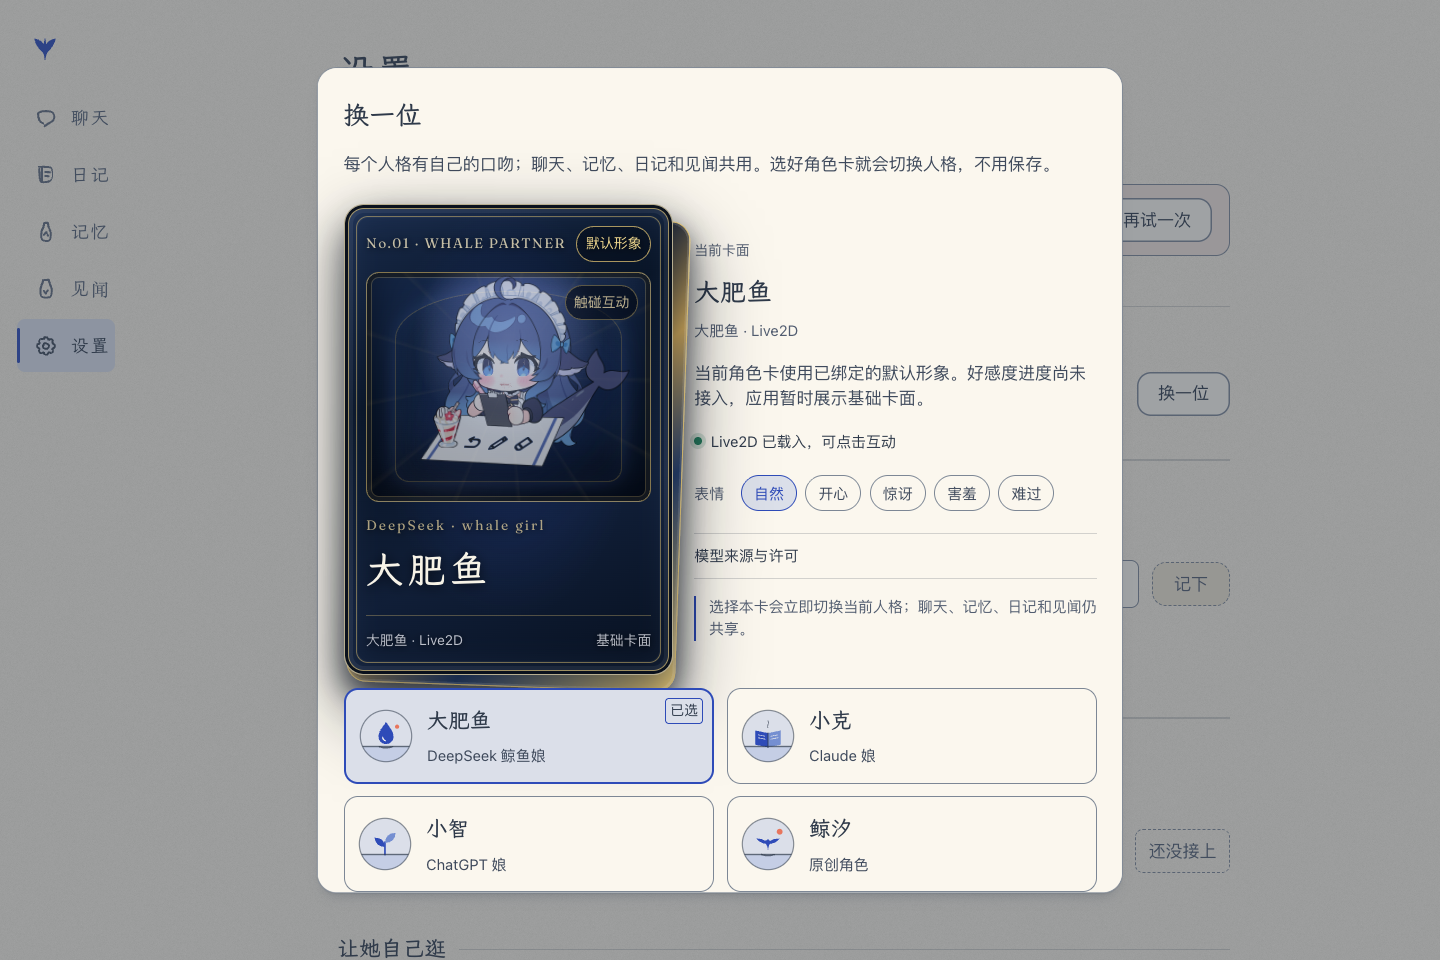
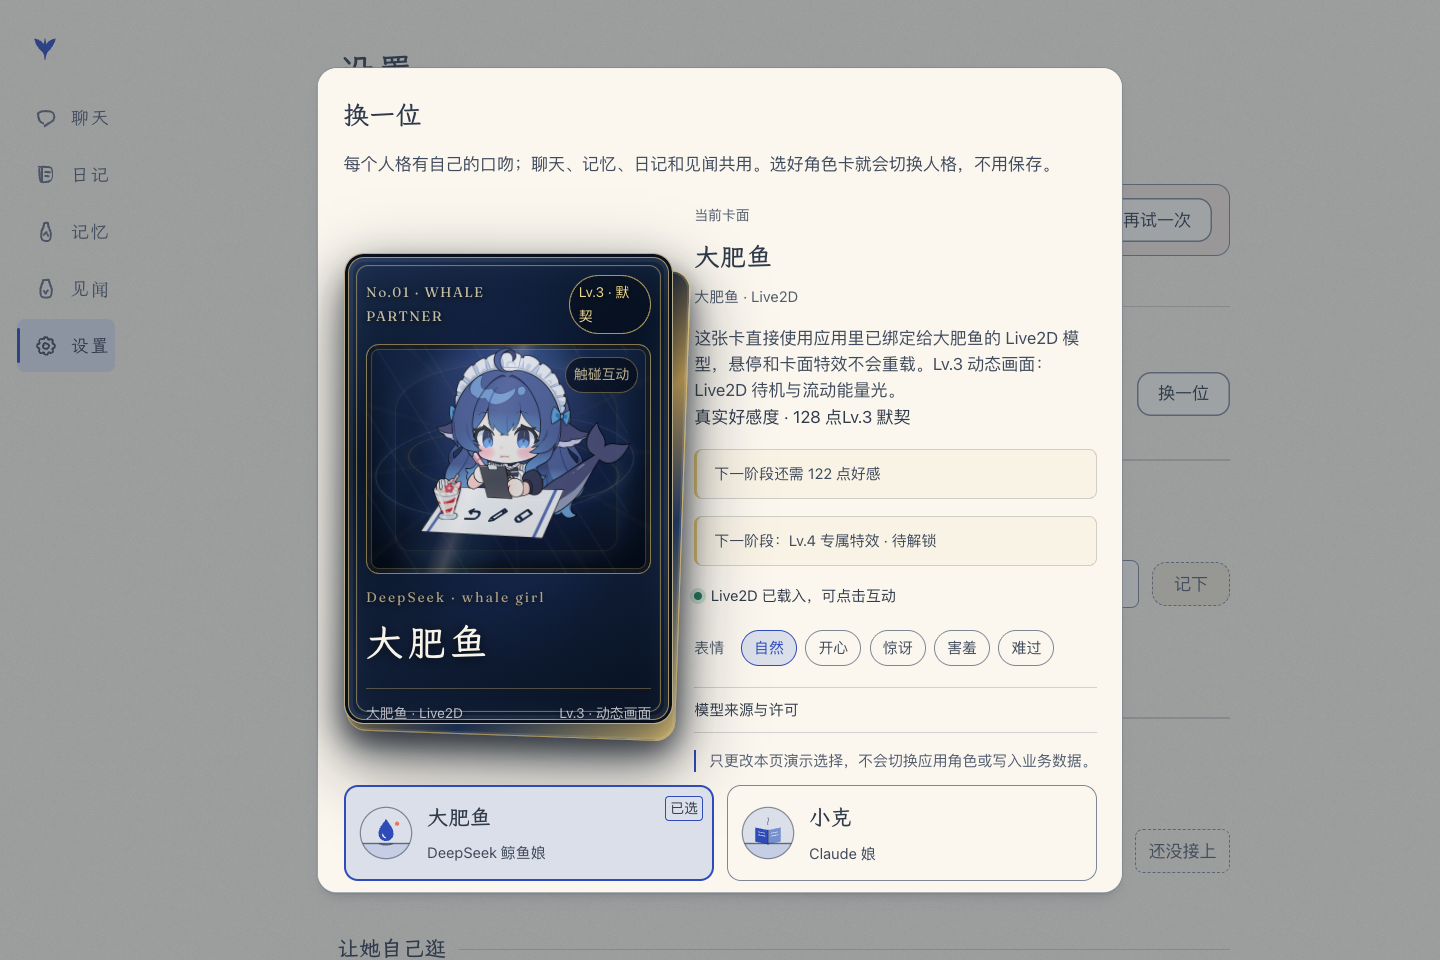
feat: bind role cards to affinity levels

Changed region(s): [[0.2188, 0.1875, 0.75, 0.9375]]

diff --git a/apps/client/src/components/settings/CharacterDialog.tsx b/apps/client/src/components/settings/CharacterDialog.tsx
@@ -3,9 +3,10 @@
  * 关闭后小角的她挥个手。每个人格使用一个固定默认形象，不提供跨角色的模型选择。
  */
 import { Dialog } from "radix-ui";
-import { useEffect, useId, useRef } from "react";
+import { useEffect, useId, useRef, useState } from "react";
 import { CHARACTERS, setCharacter, useCharacter } from "../../characters";
-import { CARD_CHARACTERS, RELATIONSHIP_SAMPLES } from "../../card-preview/data";
+import { API_BASE } from "../../lib/api";
+import { CARD_CHARACTERS, RELATIONSHIP_SAMPLES, type RelationshipProgress } from "../../card-preview/data";
 import { CardShowcase } from "../../card-preview/CardShowcase";
 import { setCompanionMood } from "../CompanionCorner";
 import { CharacterMark } from "../CharacterMark";
@@ -22,6 +23,9 @@ export function CharacterDialog({ open, onOpenChange }: Props) {
   const titleId = useId();
   const descId = useId();
   const changed = useRef(false);
+  const [relationship, setRelationship] = useState<{ characterId: string; snapshot: RelationshipProgress } | null>(null);
+  const [relationshipStatus, setRelationshipStatus] = useState<"loading" | "ready" | "error">("loading");
+  const [retryCount, setRetryCount] = useState(0);
 
   useEffect(() => {
     if (open) {
@@ -29,10 +33,38 @@ export function CharacterDialog({ open, onOpenChange }: Props) {
     }
   }, [open]);
 
+  useEffect(() => {
+    if (!open) return;
+    const controller = new AbortController();
+    setRelationship(null);
+    setRelationshipStatus("loading");
+    void fetch(`${API_BASE}/api/relationship?character=${encodeURIComponent(character.id)}`, {
+      cache: "no-store",
+      signal: controller.signal,
+    })
+      .then(async (response) => {
+        if (!response.ok) throw new Error(`HTTP ${response.status}`);
+        return await response.json() as RelationshipProgress;
+      })
+      .then((snapshot) => {
+        if (!Number.isFinite(snapshot.points) || !Number.isInteger(snapshot.level)) throw new Error("Invalid relationship snapshot");
+        setRelationship({ characterId: character.id, snapshot });
+        setRelationshipStatus("ready");
+      })
+      .catch((error: unknown) => {
+        if (error instanceof DOMException && error.name === "AbortError") return;
+        setRelationshipStatus("error");
+      });
+    return () => controller.abort();
+  }, [character.id, open, retryCount]);
+
   const close = (next: boolean) => {
     if (!next && changed.current) setCompanionMood("wave", { ttl: 2400 });
     onOpenChange(next);
   };
+  const activeRelationship = relationship?.characterId === character.id ? relationship.snapshot : null;
+  const sample = RELATIONSHIP_SAMPLES.find((item) => item.level === activeRelationship?.level) ?? RELATIONSHIP_SAMPLES[0];
+  const cardRelationshipStatus = activeRelationship ? undefined : relationshipStatus === "error" ? "error" : "loading";
 
   return (
     <Dialog.Root open={open} onOpenChange={close}>
@@ -49,9 +81,19 @@ export function CharacterDialog({ open, onOpenChange }: Props) {
           <CardShowcase
             character={cardCharacter}
             index={characterIndex}
-            sample={RELATIONSHIP_SAMPLES[0]}
-            showProgress={false}
+            sample={sample}
+            showProgress={activeRelationship !== null}
+            relationship={activeRelationship}
+            relationshipStatus={cardRelationshipStatus}
           />
+          {relationshipStatus === "error" && (
+            <div className="set-dialog__relationship-retry">
+              <p>好感度服务暂时没有响应，角色切换仍可正常使用。</p>
+              <button type="button" className="btn btn--secondary" onClick={() => setRetryCount((count) => count + 1)}>
+                重试读取好感度
+              </button>
+            </div>
+          )}
 
           <ul className="set-chars">
             {CHARACTERS.map((item) => {

diff --git a/apps/client/src/card-preview/CardShowcase.tsx b/apps/client/src/card-preview/CardShowcase.tsx
@@ -3,7 +3,7 @@ import { Live2DStage } from "../avatar/Live2DStage";
 import type { AvatarEmotion } from "../avatar/model.config";
 import { CharacterMark } from "../components/CharacterMark";
 import { CardParticles } from "./CardParticles";
-import { RELATIONSHIP_SAMPLES, type CardCharacter, type RelationshipSample } from "./data";
+import { RELATIONSHIP_SAMPLES, type CardCharacter, type RelationshipProgress, type RelationshipSample } from "./data";
 import "./card-showcase.css";
 
 type Props = {
@@ -11,6 +11,8 @@ type Props = {
   index: number;
   sample: RelationshipSample;
   showProgress?: boolean;
+  relationship?: RelationshipProgress | null;
+  relationshipStatus?: "loading" | "error";
 };
 
 const EXPRESSIONS: ReadonlyArray<{ value: AvatarEmotion; label: string }> = [
@@ -59,7 +61,7 @@ function resetTilt(event: PointerEvent<HTMLElement>) {
   event.currentTarget.style.setProperty("--parallax-model-y", "0px");
 }
 
-export function CardShowcase({ character, index, sample, showProgress = true }: Props) {
+export function CardShowcase({ character, index, sample, showProgress = true, relationship, relationshipStatus }: Props) {
   const [emotion, setEmotion] = useState<AvatarEmotion>("neutral");
   const [stage, setStage] = useState<"loading" | "ready" | "failed" | "static">(character.model ? "loading" : "static");
   const [tapCount, setTapCount] = useState(0);
@@ -138,8 +140,37 @@ export function CardShowcase({ character, index, sample, showProgress = true }: 
             ? model
               ? `这张卡直接使用应用里已绑定给大肥鱼的 Live2D 模型，悬停和卡面特效不会重载。Lv.${sample.level} ${sample.effect}：${sample.detail}。`
               : "此人格目前没有可合法接入的 Live2D 文件，预览保留自己的固定默认形象，不借用其他角色的模型。"
-            : "当前角色卡使用已绑定的默认形象。好感度进度尚未接入，应用暂时展示基础卡面。"}
+            : relationshipStatus === "loading"
+              ? "当前角色卡使用已绑定的默认形象，正在读取真实好感度与对应卡面等级。"
+              : relationshipStatus === "error"
+                ? "当前角色卡使用已绑定的默认形象；暂时无法读取好感度，重试后会显示对应等级。"
+                : "当前角色卡使用已绑定的默认形象。"}
         </p>
+        {relationship && (
+          <div className="card-preview__live-progress">
+            <div className="card-preview__live-progress-head">
+              <span>真实好感度 · {relationship.points} 点</span>
+              <span>Lv.{relationship.level} {relationship.label}</span>
+            </div>
+            <div
+              className="card-preview__progress"
+              role="progressbar"
+              aria-label="当前角色好感度进度"
+              aria-valuemin={0}
+              aria-valuemax={100}
+              aria-valuenow={relationship.progress}
+            >
+              <span style={{ width: `${relationship.progress}%` }} />
+            </div>
+            <p className="card-preview__tier-next">
+              {relationship.nextThreshold === null
+                ? "已解锁最高级专属特效"
+                : `下一阶段还需 ${Math.max(0, relationship.nextThreshold - relationship.points)} 点好感`}
+            </p>
+          </div>
+        )}
+        {relationshipStatus === "loading" && <p className="card-preview__tier-next" role="status">正在读取好感度…</p>}
+        {relationshipStatus === "error" && <p className="card-preview__tier-next" role="status">好感度暂不可读取，请重试。</p>}
         {showProgress && (
           <p className="card-preview__tier-next">
             {nextSample ? `下一阶段：Lv.${nextSample.level} ${nextSample.effect} · 待解锁` : "最高级专属特效已解锁"}

diff --git a/apps/client/src/card-preview/data.ts b/apps/client/src/card-preview/data.ts
@@ -9,10 +9,19 @@ export const CARD_CHARACTERS: readonly CardCharacter[] = CHARACTERS.map((charact
 }));
 
 export const RELATIONSHIP_SAMPLES = [
-  { level: 1, label: "初识", points: 0, next: 180, effect: "普通静态卡面", detail: "静态立绘与基础卡框" },
-  { level: 2, label: "相熟", points: 180, next: 520, effect: "立体效果", detail: "视角倾斜与人物、背景分层视差" },
-  { level: 3, label: "默契", points: 520, next: 920, effect: "动态画面", detail: "Live2D 待机与流动能量光" },
-  { level: 4, label: "亲近", points: 920, next: 920, effect: "专属特效", detail: "随卡面浮动的粒子与动态光照" },
+  { level: 1, label: "相识", points: 0, next: 25, effect: "基础卡面", detail: "静态立绘与基础卡框" },
+  { level: 2, label: "相熟", points: 25, next: 100, effect: "立体效果", detail: "视角倾斜与人物、背景分层视差" },
+  { level: 3, label: "默契", points: 100, next: 250, effect: "动态画面", detail: "Live2D 待机与流动能量光" },
+  { level: 4, label: "亲近", points: 250, next: 250, effect: "专属特效", detail: "随卡面浮动的粒子与动态光照" },
 ] as const;
 
 export type RelationshipSample = typeof RELATIONSHIP_SAMPLES[number];
+
+export type RelationshipProgress = {
+  points: number;
+  level: number;
+  label: string;
+  effect: string;
+  nextThreshold: number | null;
+  progress: number;
+};

diff --git a/apps/client/src/card-preview/card-preview.css b/apps/client/src/card-preview/card-preview.css
@@ -63,6 +63,10 @@
 .card-preview__effect-control { align-self: center; padding-left: var(--sp-6); border-left: 1px solid var(--line); }
 .card-preview__effect-copy { min-height: 3em; margin-top: var(--sp-2); color: var(--ink-soft); font-size: var(--fs-small); line-height: var(--lh-ui); }
 .card-preview__effect-next { margin-top: var(--sp-2); color: var(--ink-mute); font-size: var(--fs-micro); line-height: var(--lh-ui); }
+.card-preview__live-progress { margin-top: var(--sp-4); }
+.card-preview__live-progress-head { display: flex; justify-content: space-between; gap: var(--sp-3); color: var(--ink-soft); font-size: var(--fs-small); }
+.card-preview__live-progress-head span:last-child { color: var(--ink); font-weight: 600; }
+.card-preview__live-progress .card-preview__progress { margin-top: var(--sp-2); }
 
 .btn {
   display: inline-flex;
@@ -152,6 +156,7 @@
 .card-preview__card:focus-visible { outline: none; box-shadow: var(--focus-ring); border-radius: var(--r-md); }
 
 .card-preview__footer { margin-top: var(--sp-4); color: var(--ink-mute); font-size: var(--fs-small); }
+.set-dialog__relationship-retry { display: flex; align-items: center; justify-content: space-between; gap: var(--sp-3); margin: 0 0 var(--sp-4); color: var(--ink-mute); font-size: var(--fs-small); }
 
 @media (max-width: 900px) {
   .card-preview__grid { grid-template-columns: repeat(2, minmax(0, 1fr)); gap: var(--sp-4); }

diff --git a/apps/client/src/card-preview/CardPreviewPage.tsx b/apps/client/src/card-preview/CardPreviewPage.tsx
@@ -9,9 +9,7 @@ export function CardPreviewPage() {
   const [sampleIdx, setSampleIdx] = useState(3);
   const sample = RELATIONSHIP_SAMPLES[sampleIdx];
   const selected = CARD_CHARACTERS.find((character) => character.id === selectedId) ?? CARD_CHARACTERS[0];
-  const progress = sampleIdx === RELATIONSHIP_SAMPLES.length - 1
-    ? 100
-    : Math.round((sample.points / sample.next) * 100);
+  const progress = sampleIdx === RELATIONSHIP_SAMPLES.length - 1 ? 100 : 0;
 
   useEffect(() => {
     document.documentElement.setAttribute("data-character", selected.id);
